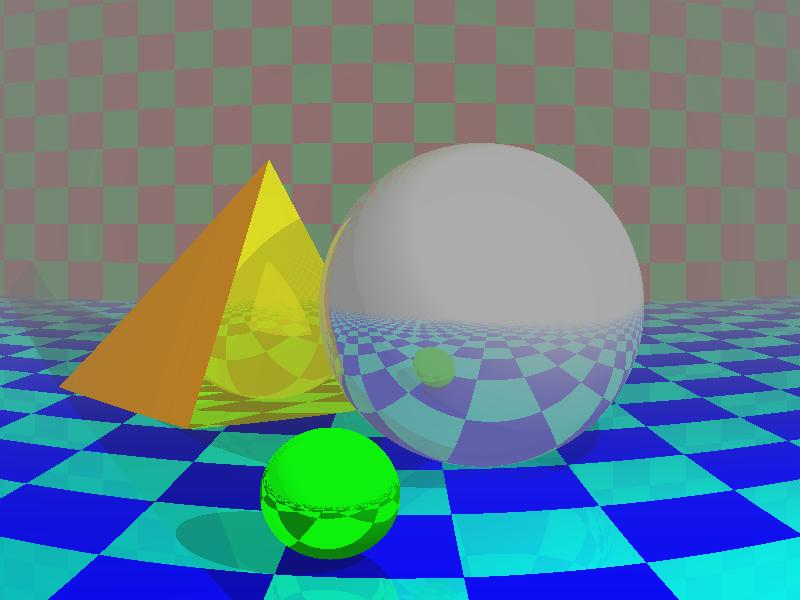
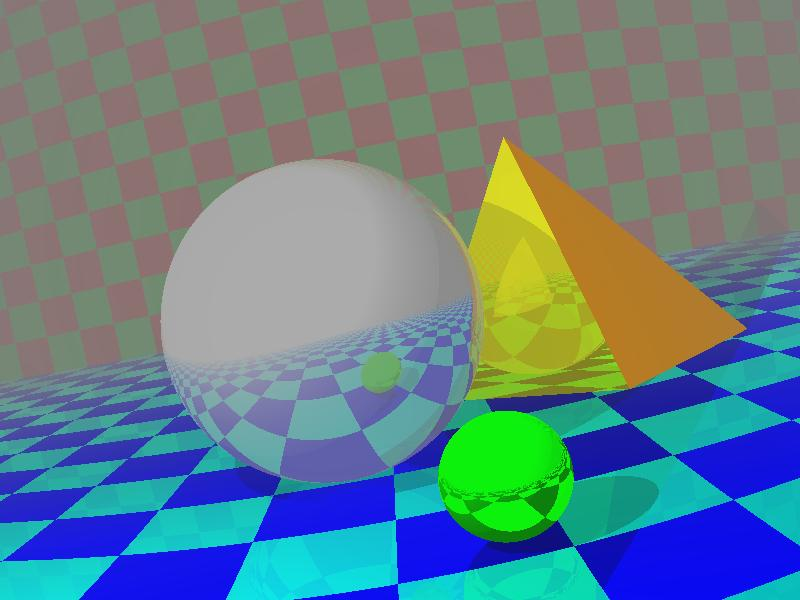
Top of the screen no longer has to be aligned with the Y axis.
Also, don't do a backward flip to look behind you away from the origin! Images are no longer inverted; see ChristmasTreePicture2 as an example.

diff --git a/src/main/java/org/glencross/raytrace/Matrix.java b/src/main/java/org/glencross/raytrace/Matrix.java
@@ -8,7 +8,7 @@ public class Matrix {
         return new Matrix(
                 cos, 0, sin,
                 0, 1, 0,
-                0-sin, 0, cos
+                0 - sin, 0, cos
         );
     }
 
@@ -17,14 +17,14 @@ public class Matrix {
         double sin = Math.sin(-radians);
         return new Matrix(
                 1, 0, 0,
-                0, cos, 0-sin,
+                0, cos, 0 - sin,
                 0, sin, cos
         );
     }
 
     /**
      * Creates a rotation matrix that is able to rotate from one vector to another vector.
-     *
+     * <p>
      * From https://math.stackexchange.com/questions/293116/rotating-one-3d-vector-to-another
      */
     public static Matrix getRotationMatrix(Vector fromVector, Vector toVector) {
@@ -33,24 +33,52 @@ public class Matrix {
         if (theta <= 0.0001) {
             return Matrix.identity();
         }
+        if (Math.abs(Math.PI-theta) < 0.00001) {
+            x = fromVector.crossProduct(new Vector(toVector.getX()*2+1, toVector.getY()*-2-1, toVector.getZ())).toUnit();
+        }
         Matrix matrixA = new Matrix(
-                0,          -x.getZ(),  x.getY(),
-                x.getZ(),   0,          -x.getX(),
-                -x.getY(),  x.getX(),   0
+                0, -x.getZ(), x.getY(),
+                x.getZ(), 0, -x.getX(),
+                -x.getY(), x.getX(), 0
         );
         return Matrix.identity()
                 .plus(matrixA.multiply(Math.sin(theta)))
-                .plus(matrixA.multiply(matrixA).multiply(1-Math.cos(theta)));
+                .plus(matrixA.multiply(matrixA).multiply(1 - Math.cos(theta)));
+    }
+
+
+
+    public static Matrix rotateAroundVector(Vector axis, double radians) {
+        Vector xaxis = new Vector(1, 0, 0);
+        Matrix result = getRotationMatrix(axis, xaxis)
+                .multiply(rotateAroundXAxis(radians))
+                .multiply(getRotationMatrix(xaxis, axis));
+        return result;
+
+    }
+
+    public static void main(String[] args) {
+        System.out.println(rotateAroundYAxis(30));
+        System.out.println(rotateAroundVector(new Vector(0, 1, 0), 30));
     }
 
 
     public static Matrix identity() {
-            return new Matrix(
-                    1, 0, 0,
-                    0, 1, 0,
-                    0, 0, 1
-            );
+        return new Matrix(
+                1, 0, 0,
+                0, 1, 0,
+                0, 0, 1
+        );
     }
+
+    public static Matrix negate() {
+        return new Matrix(
+                -1, 0, 0,
+                0, -1, 0,
+                0, 0, -1
+        );
+    }
+
 
     private final double x1;
     private final double x2;
@@ -78,37 +106,37 @@ public class Matrix {
 
     public Vector multiply(Vector vector) {
         return new Vector(
-                x1*vector.getX()+x2*vector.getY()+x3*vector.getZ(),
-                y1*vector.getX()+y2*vector.getY()+y3*vector.getZ(),
-                z1*vector.getX()+z2*vector.getY()+z3*vector.getZ());
+                x1 * vector.getX() + x2 * vector.getY() + x3 * vector.getZ(),
+                y1 * vector.getX() + y2 * vector.getY() + y3 * vector.getZ(),
+                z1 * vector.getX() + z2 * vector.getY() + z3 * vector.getZ());
     }
 
     public String toString() {
         return String.format("(%f, %f, %f)\n(%f, %f, %f)\n(%f, %f, %f)",
-                new Object[] {x1, x2, x3, y1, y2, y3, z1, z2, z3});
+                new Object[]{x1, x2, x3, y1, y2, y3, z1, z2, z3});
     }
 
     public Matrix multiply(Matrix o) {
         return new Matrix(
-                x1*o.x1+x2*o.y1+x3*o.z1, x1*o.x2+x2*o.y2+x3*o.z2, x1*o.x3+x2*o.y3+x3*o.z3,
-                y1*o.x1+y2*o.y1+y3*o.z1, y1*o.x2+y2*o.y2+y3*o.z2, y1*o.x3+y2*o.y3+y3*o.z3,
-                z1*o.x1+z2*o.y1+z3*o.z1, z1*o.x2+z2*o.y2+z3*o.z2, z1*o.x3+z2*o.y3+z3*o.z3
+                x1 * o.x1 + x2 * o.y1 + x3 * o.z1, x1 * o.x2 + x2 * o.y2 + x3 * o.z2, x1 * o.x3 + x2 * o.y3 + x3 * o.z3,
+                y1 * o.x1 + y2 * o.y1 + y3 * o.z1, y1 * o.x2 + y2 * o.y2 + y3 * o.z2, y1 * o.x3 + y2 * o.y3 + y3 * o.z3,
+                z1 * o.x1 + z2 * o.y1 + z3 * o.z1, z1 * o.x2 + z2 * o.y2 + z3 * o.z2, z1 * o.x3 + z2 * o.y3 + z3 * o.z3
         );
     }
 
     public Matrix multiply(double v) {
         return new Matrix(
-                x1*v, x2*v, x3*v,
-                y1*v, y2*v, y3*v,
-                z1*v, z2*v, z3*v
+                x1 * v, x2 * v, x3 * v,
+                y1 * v, y2 * v, y3 * v,
+                z1 * v, z2 * v, z3 * v
         );
     }
 
     public Matrix plus(Matrix o) {
         return new Matrix(
-                x1+o.x1, x2+o.x2, x3+o.x3,
-                y1+o.y1, y2+o.y2, y3+o.y3,
-                z1+o.z1, z2+o.z2, z3+o.z3
+                x1 + o.x1, x2 + o.x2, x3 + o.x3,
+                y1 + o.y1, y2 + o.y2, y3 + o.y3,
+                z1 + o.z1, z2 + o.z2, z3 + o.z3
         );
     }
 

diff --git a/src/main/java/org/glencross/raytrace/Scene.java b/src/main/java/org/glencross/raytrace/Scene.java
@@ -6,19 +6,21 @@ public class Scene {
 
     private final Vector viewerLocation;
     private final Vector viewerDirection;
-    private final double distanceFromScreen;
+    private final Vector topOfScreenDirection;
+    private final double horizontalFieldOfViewDegrees;
 
     private final Colour ambientLight;
     private final List<LightSource> lightSources;
     private final List<Shape> shapes;
     private final double fogFactor;
 
-    public Scene(Vector viewerLocation, Vector viewerDirection, double distanceFromScreen,
-                 Colour ambientLight, List<LightSource> lightSources, List<Shape> shapes,
+    public Scene(Vector viewerLocation, Vector viewerDirection, Vector topOfScreenDirection,
+                 double horizontalFieldOfViewDegrees, Colour ambientLight, List<LightSource> lightSources, List<Shape> shapes,
                  double fogFactor) {
         this.viewerLocation = viewerLocation;
         this.viewerDirection = viewerDirection;
-        this.distanceFromScreen = distanceFromScreen;
+        this.topOfScreenDirection = topOfScreenDirection;
+        this.horizontalFieldOfViewDegrees = horizontalFieldOfViewDegrees;
         this.ambientLight = ambientLight;
         this.lightSources = lightSources;
         this.shapes = shapes;
@@ -33,8 +35,16 @@ public class Scene {
         return viewerDirection;
     }
 
-    public double getDistanceFromScreen() {
-        return distanceFromScreen;
+    public Vector getTopOfScreenDirection() {
+        return topOfScreenDirection;
+    }
+
+    public double getHorizontalFieldOfViewDegrees() {
+        return horizontalFieldOfViewDegrees;
+    }
+
+    public Colour getAmbientLight() {
+        return ambientLight;
     }
 
     public List<LightSource> getLightSources() {
@@ -43,10 +53,6 @@ public class Scene {
 
     public List<Shape> getShapes() {
         return shapes;
-    }
-
-    public Colour getAmbientLight() {
-        return ambientLight;
     }
 
     public double getFogFactor() {

diff --git a/src/main/java/org/glencross/raytrace/RayTracer.java b/src/main/java/org/glencross/raytrace/RayTracer.java
@@ -27,13 +27,16 @@ public class RayTracer {
 
         long startTimeMillis = System.currentTimeMillis();
 
-        double horizontalFieldOfViewDegrees = 60; // Could make this a property of the scene?
+        double horizontalFieldOfViewDegrees = scene.getHorizontalFieldOfViewDegrees();
         double verticalFieldOfViewDegrees = horizontalFieldOfViewDegrees / width * height;
 
         Vector screenCentreDirection = scene.getViewerDirection();
         double topAngle = Math.toRadians(verticalFieldOfViewDegrees/2);
         double leftAngle = Math.toRadians(-horizontalFieldOfViewDegrees/2);
         double pixelAngle = Math.toRadians(verticalFieldOfViewDegrees/height);
+
+        Vector rightOfScreenVector = scene.getTopOfScreenDirection().crossProduct(scene.getViewerDirection()).toUnit();
+        Vector bottomOfScreenVector = rightOfScreenVector.crossProduct(scene.getViewerDirection()).toUnit();
 
         BufferedImage image = new BufferedImage(width, height, BufferedImage.TYPE_INT_RGB);
 
@@ -42,10 +45,9 @@ public class RayTracer {
         IntStream.range(0, height).forEach(y -> {
 
             long rowStartTime = System.currentTimeMillis();
-
-            Vector rowDirection = Matrix.rotateAroundXAxis(topAngle-y*pixelAngle).multiply(screenCentreDirection);
+            Vector rowDirection = Matrix.rotateAroundVector(rightOfScreenVector, topAngle-y*pixelAngle).multiply(screenCentreDirection);
             IntStream.range(0, width).parallel().forEach(x -> {
-                Vector pixelDirection = Matrix.rotateAroundYAxis(leftAngle+x*pixelAngle).multiply(rowDirection).toUnit();
+                Vector pixelDirection = Matrix.rotateAroundVector(bottomOfScreenVector, leftAngle+x*pixelAngle).multiply(rowDirection).toUnit();
                 Line line = new Line(scene.getViewerLocation(), pixelDirection);
                 Colour colour = getColourOfLine(null, line, 5);
                 int intColour = colour.toInt();

diff --git a/src/main/java/org/glencross/raytrace/SceneBuilder.java b/src/main/java/org/glencross/raytrace/SceneBuilder.java
@@ -1,15 +1,17 @@
 package org.glencross.raytrace;
 
+import java.util.Collections;
 import java.util.List;
 
 public class SceneBuilder {
-    private Vector viewerLocation;
-    private Vector viewerDirection;
-    private double distanceFromScreen;
-    private Colour ambientLight;
-    private List<LightSource> lightSources;
-    private List<Shape> shapes;
-    private double fogFactor;
+    private Vector viewerLocation = new Vector(0, 1, -1);
+    private Vector viewerDirection = new Vector(0, 0, 1);
+    private Vector topOfScreenDirection = new Vector(0, 1, 0);
+    private double horizontalFieldOfViewDegrees = 60d;
+    private Colour ambientLight = Colour.BLACK;
+    private List<LightSource> lightSources = Collections.emptyList();
+    private List<Shape> shapes = Collections.emptyList();
+    private double fogFactor = 0.05d;
 
     public SceneBuilder setViewerLocation(Vector viewerLocation) {
         this.viewerLocation = viewerLocation;
@@ -21,8 +23,13 @@ public class SceneBuilder {
         return this;
     }
 
-    public SceneBuilder setDistanceFromScreen(double distanceFromScreen) {
-        this.distanceFromScreen = distanceFromScreen;
+    public SceneBuilder setTopOfScreenDirection(Vector topOfScreenDirection) {
+        this.topOfScreenDirection = topOfScreenDirection;
+        return this;
+    }
+
+    public SceneBuilder setHorizontalFieldOfViewDegrees(double horizontalFieldOfViewDegrees) {
+        this.horizontalFieldOfViewDegrees = horizontalFieldOfViewDegrees;
         return this;
     }
 
@@ -47,6 +54,7 @@ public class SceneBuilder {
     }
 
     public Scene createScene() {
-        return new Scene(viewerLocation, viewerDirection, distanceFromScreen, ambientLight, lightSources, shapes, fogFactor);
+        return new Scene(viewerLocation, viewerDirection, topOfScreenDirection, horizontalFieldOfViewDegrees,
+                ambientLight, lightSources, shapes, fogFactor);
     }
 }

diff --git a/src/main/java/org/glencross/raytrace/ChristmasTreePicture.java b/src/main/java/org/glencross/raytrace/ChristmasTreePicture.java
@@ -13,6 +13,16 @@ public class ChristmasTreePicture {
 
     public static void main(String[] args) throws IOException {
 
+        SceneBuilder builder = getSceneBuilder();
+        Scene scene = builder.createScene();
+
+        RayTracer rayTracer = new RayTracer(scene, 1080, 1440);
+        RenderedImage image = rayTracer.render();
+        ImageIO.write(image, "PNG", new File("christmas.png"));
+
+    }
+
+    public static SceneBuilder getSceneBuilder() {
         List<LightSource> lightSources = new ArrayList<>();
         lightSources.add(new LightSource(Colour.WHITE, new Vector(-2, 0.1, -2), 1.5));
         lightSources.add(new LightSource(Colour.WHITE, new Vector( 2, 0.1, -2), 1.5));
@@ -97,20 +107,17 @@ public class ChristmasTreePicture {
         lightSources.add(new LightSource(Colour.WHITE,
                 new Vector(0, 3.6, -0.3), 0.1));
 
+        // A bauble behind us!
+        shapes.add(new Sphere(new Vector(0, 1.6, -5), 0.5, new Surface(Colour.RED, 1)));
+
         SceneBuilder builder = new SceneBuilder();
         builder.setViewerLocation(new Vector(0, 1.5, -4));
-        builder.setDistanceFromScreen(2);
         builder.setViewerDirection(new Vector(0, -0.1, 1).toUnit());
         builder.setAmbientLight(Colour.BLACK);
         builder.setLightSources(lightSources);
         builder.setShapes(Collections.singletonList(new CompositeShape(shapes)));
         builder.setFogFactor(0.01);
-        Scene scene = builder.createScene();
-
-        RayTracer rayTracer = new RayTracer(scene, 1080, 1440);
-        RenderedImage image = rayTracer.render();
-        ImageIO.write(image, "PNG", new File("christmas.png"));
-
+        return builder;
     }
 
 

diff --git a/src/main/java/org/glencross/raytrace/ChristmasTreePicture2.java b/src/main/java/org/glencross/raytrace/ChristmasTreePicture2.java
@@ -1,0 +1,24 @@
+package org.glencross.raytrace;
+
+import javax.imageio.ImageIO;
+import java.awt.image.RenderedImage;
+import java.io.File;
+import java.io.IOException;
+
+public class ChristmasTreePicture2 {
+
+    public static void main(String[] args) throws IOException {
+
+        // Same as ChristmasTreePicture but facing the other way
+        SceneBuilder builder = ChristmasTreePicture.getSceneBuilder();
+        builder.setViewerLocation(new Vector(0, 1.5, -4));
+        builder.setViewerDirection(new Vector(0, 0.1, -1).toUnit());
+        Scene scene = builder.createScene();
+
+        RayTracer rayTracer = new RayTracer(scene, 200, 200);
+        RenderedImage image = rayTracer.render();
+        ImageIO.write(image, "PNG", new File("christmas2.png"));
+    }
+
+
+}

diff --git a/src/main/java/org/glencross/raytrace/Picture1.java b/src/main/java/org/glencross/raytrace/Picture1.java
@@ -15,13 +15,13 @@ public class Picture1 {
 
         SceneBuilder builder = new SceneBuilder();
         builder.setViewerLocation(new Vector(0, 100, -800));
-        builder.setDistanceFromScreen(300);
         builder.setViewerDirection(new Vector(0, -0.1, 1).toUnit());
         builder.setAmbientLight(new Colour(0.5, 0.5, 0.5));
         builder.setLightSources(Arrays.asList(
                 new LightSource( Colour.WHITE, new Vector(300, 300, -300), 300)));
 
 
+        builder.setTopOfScreenDirection(new Vector(0.2, 1, 0).toUnit());
         CompositeShape pyramid = new CompositeShape(Arrays.asList(
                 new Triangle(new Vector(-600, -200, 450), new Vector(0, -200, 450), new Vector(-200, 200, 350),
                         new Surface(Colour.RED, 0.6)),

diff --git a/src/main/java/org/glencross/raytrace/TeapotPicture.java b/src/main/java/org/glencross/raytrace/TeapotPicture.java
@@ -14,7 +14,6 @@ public class TeapotPicture {
 
         SceneBuilder builder = new SceneBuilder();
         builder.setViewerLocation(new Vector(0, 300, -800));
-        builder.setDistanceFromScreen(300);
         builder.setViewerDirection(new Vector(0, -0.1, 1).toUnit());
         builder.setAmbientLight(new Colour(0.1, 0.1, 0.1));
         builder.setLightSources(Arrays.asList(

diff --git a/src/main/java/org/glencross/raytrace/CylinderPicture.java b/src/main/java/org/glencross/raytrace/CylinderPicture.java
@@ -12,7 +12,6 @@ public class CylinderPicture {
 
         SceneBuilder builder = new SceneBuilder();
         builder.setViewerLocation(new Vector(0, 2, -4));
-        builder.setDistanceFromScreen(2);
         builder.setViewerDirection(new Vector(0, -0.3, 1).toUnit());
         builder.setAmbientLight(new Colour(0.1, 0.1, 0.1));
         builder.setLightSources(Arrays.asList(
